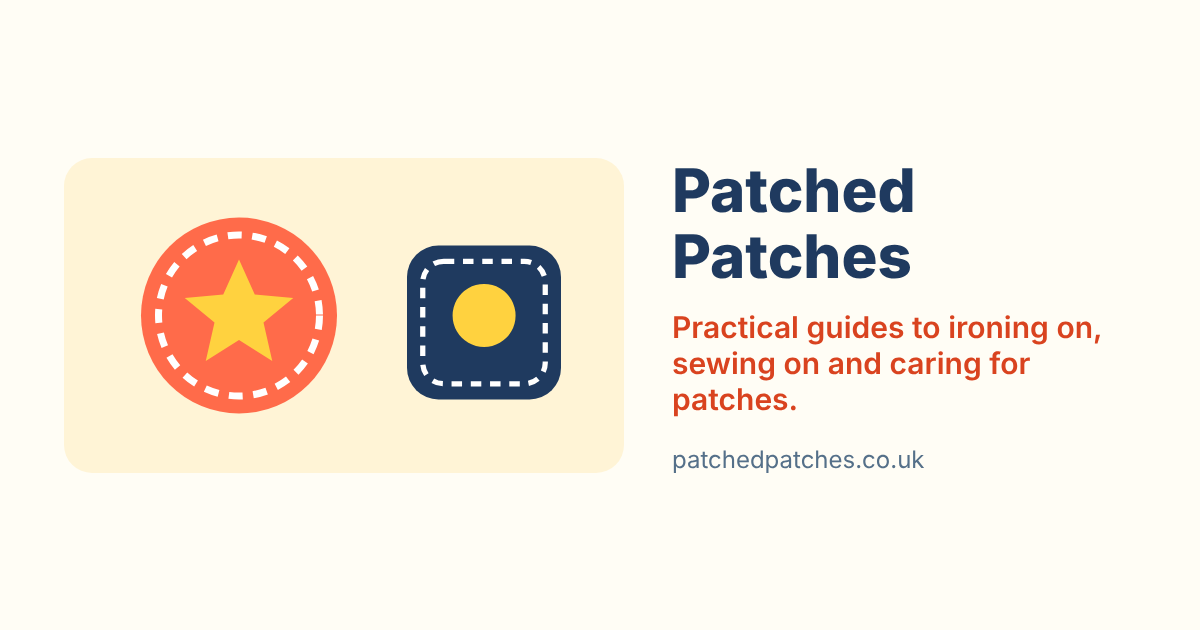
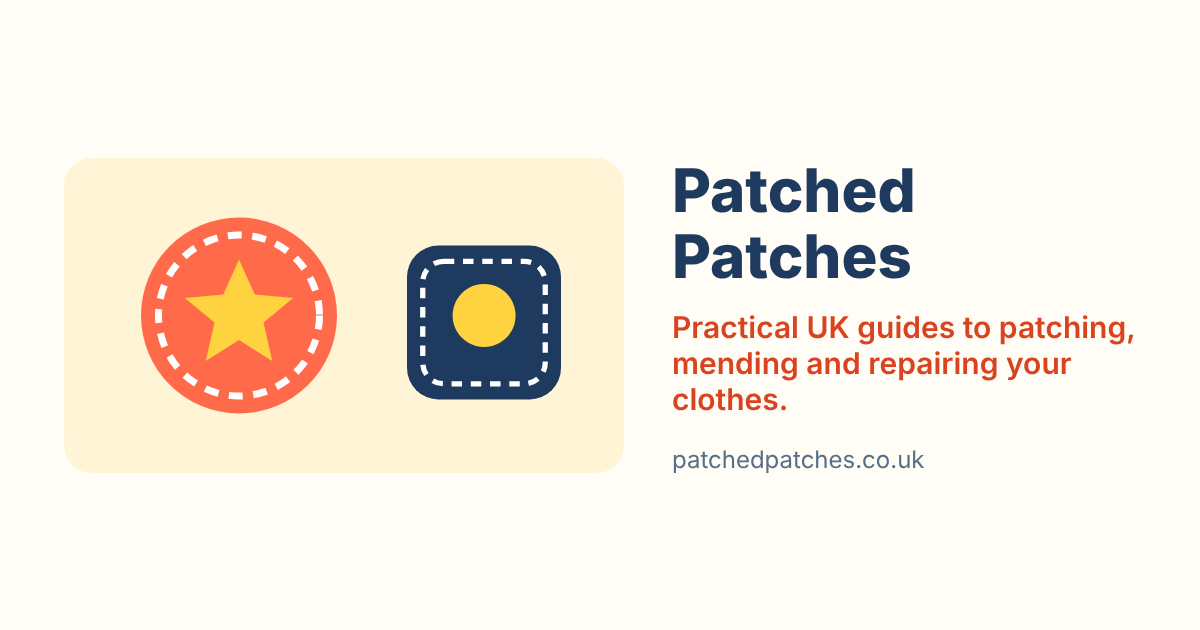
Widen the site to clothing repair and mending
Add a Mending and repairs topic with three starter guides (darning a
jumper, sewing on a button, visible mending), move the jeans hole guide
into it, refresh the homepage and tagline, promote the layout tool on the
homepage and in the nav, and add mending topics to the content backlog.

Claude-Session: https://claude.ai/code/session_01LcLBueyEC4HMvEXcbUj53C

Changed region(s): [[0.555, 0.4825, 0.9558, 0.6635]]

diff --git a/public/style.css b/public/style.css
@@ -652,3 +652,16 @@ nav[aria-label="Main"] a { font-weight: 800; }
   .layout-tool { grid-template-columns: minmax(0, 1fr); padding-top: 18px; }
   .stage { position: relative; top: 0; padding: 10px; border-radius: 22px; }
 }
+
+/* Homepage band for the layout tool */
+.tool-band { padding: 40px 0 0; }
+.tool-band-grid { display: grid; grid-template-columns: minmax(0, 1fr) minmax(0, 1fr); gap: 32px; align-items: center; padding: 30px 40px; border-radius: 30px;
+  background: color-mix(in srgb, #8e5cd9 14%, var(--surface)); box-shadow: 0 6px 0 color-mix(in srgb, #8e5cd9 30%, transparent), var(--shadow); }
+.tool-band-art { display: block; }
+.tool-band-art svg { display: block; width: 100%; height: auto; max-height: 280px; transition: transform .3s cubic-bezier(.3, 1.4, .5, 1); }
+.tool-band-art:hover svg { transform: rotate(-2deg) scale(1.03); }
+.tool-band-art .cursor { animation: nudge 2.4s ease-in-out infinite; }
+@keyframes nudge { 50% { transform: translate(250px, 200px); } }
+@media (prefers-reduced-motion: reduce) { .tool-band-art .cursor { animation: none; } }
+@media (max-width: 760px) { .tool-band-grid { grid-template-columns: minmax(0, 1fr); padding: 24px 20px; } }
+@media (max-width: 440px) { .site-header nav .hide-xs { display: none; } }

diff --git a/content/guides/how-to-darn-a-hole-in-a-jumper.md b/content/guides/how-to-darn-a-hole-in-a-jumper.md
@@ -1,0 +1,76 @@
+---
+title: How to darn a hole in a jumper
+description: How to darn a hole in a knitted jumper by hand, step by step, with the right wool and needle, plus how to fix moth holes and worn elbows before they get bigger.
+category: Mending and repairs
+date: 2026-10-24
+reviewed: 2026-10-24
+patch: DARN|IT
+shape: hex
+---
+To darn a hole in a jumper, you weave new yarn across the hole: first a set of parallel stitches running one way, then a second set woven over and under them at right angles, anchored in the sound knitting around the edge. It takes 15 to 30 minutes for a small hole and lasts for years. Most darns go wrong because they're pulled too tight, which puckers the jumper, or because they stop at the edge of the hole instead of reaching the healthy fabric around it.
+
+## What to check first
+
+- **The size of the hole.** Woven darning works best on holes up to about 2.5 cm (1 in) across. Bigger holes are easier to fix with a patch on the inside, or with a decorative visible mend.
+- **How worn the area is.** Hold the jumper up to the light. Thin patches around the hole need covering too, or they'll be the next hole.
+- **The care label.** It tells you the fibre, which helps you match the yarn. A wool jumper wants wool yarn, so the darn shrinks and stretches the same way when washed.
+
+## What you need
+
+- **Yarn** close in weight to the jumper's own, or a little finer. Darning wool or a fine sock yarn suits most knitwear. Choose a matching colour to hide the repair, or a bright one to show it off.
+- **A blunt darning needle** with an eye big enough for the yarn. A blunt tip slips between stitches instead of splitting them. A [set of darning needles](amazon:darning needles blunt) is inexpensive.
+- **Something round to stretch the hole over**: a darning mushroom or egg, an orange, a jam jar or a tennis ball. [Darning mushrooms](amazon:darning mushroom) make it easier.
+- **Small scissors.**
+
+## How to darn a hole, step by step
+
+1. **Trim any loose, fluffy ends** around the hole, but don't cut into the knitting. If there are loose loops (dropped stitches), catch them with a few stitches so they can't run further.
+2. **Turn the jumper inside out** if you want the darn to be less visible, or work on the right side for a visible mend.
+3. **Stretch the area over your mushroom** so it's smooth and flat, but not pulled out of shape. A rubber band or hair tie round the stem holds it in place.
+4. **Mark out the darning area.** Picture a square or rectangle covering the hole and about 1 cm (⅜ in) of sound knitting on every side. Some people tack round it with a contrasting thread first.
+5. **Sew the first set of lines (the warp).** Starting at one corner of your area, outside the hole, take small running stitches in a straight line across the sound knitting, over the hole, and into the sound knitting on the other side. Turn and come back in a line right next to the first. Keep going until the whole area is covered with close, parallel lines. Leave a small loop of slack at each turn so the darn can stretch with the knit.
+6. **Weave the second set of lines (the weft).** Turn the work 90 degrees. Starting outside the hole again, weave the needle **over one line and under the next** all the way across, then back the other way, going over the lines you went under last time. Push each row gently up against the last with the needle tip so it forms a little woven square.
+7. **Finish off.** Weave the tail of the yarn through the back of the darn or the surrounding knitting for 3 to 4 cm (about 1½ in) and trim. Don't use a knot; it can rub through.
+8. **Steam or press lightly** following the care label, which helps the darn settle into the knitting.
+
+## Darning methods compared
+
+| Method | Best for | What to know |
+|---|---|---|
+| Woven darn | Small holes and thin patches in knitwear and socks | Strong and flexible; hidden in a matching yarn, or decorative in a bright one |
+| Swiss darning (duplicate stitch) | Thin areas that haven't fully gone through | Follows the knit stitches exactly, so it's almost invisible; not for open holes |
+| Patch on the inside | Larger holes and worn elbows | Quick and strong; a little stiffer than a darn |
+| Visible mend on the outside | Any size, when you like the look | Can be woven, stitched or patched; see our [visible mending guide](/guides/sashiko-visible-mending-for-beginners/) |
+
+## Moth holes
+
+Moth holes are usually small and scattered. Darn each one as above. Before you put the jumper away, wash it as the label allows, or put it in the freezer in a sealed bag for a few days, and store knitwear clean and dry in sealed bags or boxes. Clothes moths prefer dirty, undisturbed wool, so cleaning and checking stored jumpers regularly is the best prevention.
+
+## Worn elbows
+
+Elbows wear thin long before they open up. Darn them while the knitting is still whole, or sew a soft suede, felt or knitted elbow patch over the top. Our guide to [sewing on a patch by hand](/guides/how-to-sew-on-a-patch-by-hand/) shows the stitches. Leave some give in the stitches, because elbows stretch every time you bend your arm.
+
+## Don't
+
+- **Don't pull the darn tight.** It puckers the jumper and can tear the edge of the hole.
+- **Don't stop at the edge of the hole.** Anchor every line in sound knitting.
+- **Don't use a sharp needle** if you can help it; it splits the yarn of the jumper.
+- **Don't use a much thicker yarn** than the jumper, or the darn will sit in a hard lump.
+
+## Common questions
+
+### What's the best yarn for darning a wool jumper?
+A wool yarn of the same weight as the jumper, or slightly finer. Darning wool or a fine sock yarn works for most jumpers. Matching the fibre means the repair behaves the same way when it's washed.
+
+### Can you darn without a darning mushroom?
+Yes. Anything firm and rounded works: an orange, a jam jar, a light bulb or a tennis ball. It just needs to hold the knitting flat and smooth while you weave.
+
+### How big a hole can you darn?
+Woven darning works best up to about 2.5 cm (1 in) across. You can darn bigger holes, but it takes a long time and the repair is stiffer, so a patch on the inside is often easier.
+
+### Will a darn come undone in the wash?
+Not if the ends are woven in rather than knotted, and the darn reaches sound knitting all round. Wash the jumper as the care label says.
+
+## The short version
+
+Stretch the hole over something round, sew close parallel lines across it into the sound knitting on each side, then weave a second set at right angles, over and under. Keep the tension loose, weave the ends in, and catch holes while they're small.

diff --git a/content/guides/how-to-sew-on-a-button.md b/content/guides/how-to-sew-on-a-button.md
@@ -1,0 +1,78 @@
+---
+title: How to sew on a button (so it stays on)
+description: How to sew a button back on by hand, with a thread shank so it buttons easily, plus four-hole buttons, shank buttons and coat buttons.
+category: Mending and repairs
+date: 2026-10-24
+reviewed: 2026-10-24
+patch: BUTTON|UP
+shape: circle
+---
+To sew on a button, knot a doubled thread, stitch through the button's holes and the fabric four to six times, leaving a little space under the button, then wrap the thread round those stitches to make a short stem (a shank) and tie off on the inside. It takes about 10 minutes. Buttons that come off again usually weren't given a shank, so the fabric and thread were squeezed every time the button went through the hole.
+
+## What to check first
+
+- **Where the button goes.** Look for the old holes or the little tuft of thread left behind. If there's nothing, button the garment up and push a pin through the buttonhole to mark the spot.
+- **The fabric around it.** If the button tore a hole when it came off, mend that first, or back it with a small square of fabric or a tiny backing button on the inside.
+- **The button type.** Flat buttons with two or four holes, and shank buttons with a loop on the back, are sewn on slightly differently (see below).
+
+## What you need
+
+- **Thread** that matches the other buttons. Polyester all-purpose thread is strong enough for shirts and trousers; use button thread or [upholstery thread](amazon:button thread strong) for coats.
+- **A hand-sewing needle** that passes through the button holes.
+- **A cocktail stick, matchstick or pin** to make the space for the shank.
+- **Scissors.** A [basic sewing kit](amazon:sewing kit for beginners) has all of this.
+- **A spare button**, if the old one is lost. Many shirts and coats have a spare sewn inside, near a side seam or on the care label.
+
+## How to sew on a flat button
+
+1. **Thread the needle** with about 60 cm (2 ft) of thread, pull the ends level so it's doubled, and knot them together.
+2. **Start on the right side**, under where the button will sit, with a small stitch through the fabric, so the knot is hidden under the button. Take a second tiny stitch in the same place to lock it.
+3. **Put the button on the needle** and slide it down to the fabric.
+4. **Lay a cocktail stick or pin across the top of the button**, between the holes. Your stitches go over it, which leaves slack for the shank.
+5. **Stitch up and down** through the holes and the fabric, going over the stick each time. Four to six passes is enough for a shirt; a coat button wants a few more. On a four-hole button, make two parallel bars or a cross, matching the other buttons on the garment.
+6. **Take out the stick** and pull the button away from the fabric so the slack stitches stand up underneath it.
+7. **Make the shank.** Bring the needle up between the button and the fabric and wind the thread tightly round the stitches five or six times.
+8. **Finish off.** Push the needle to the inside, take three or four small stitches on top of each other through the back of the button stitches, and trim the thread.
+
+## Shank buttons and coat buttons
+
+**Shank buttons** have a loop on the back instead of holes, so they make their own space. Stitch through the loop and the fabric four to six times, keeping the loop lined up with the buttonhole, then finish off on the inside.
+
+**Coat buttons** carry more strain and sit on thicker fabric. Use strong button thread, a longer shank (about the thickness of the fabric at the buttonhole), and a small flat **backing button** on the inside, stitched through at the same time. The backing button spreads the pull so it can't tear the fabric.
+
+## Thread and button types compared
+
+| Button | Best thread | Shank | What to know |
+|---|---|---|---|
+| Shirt button (2 or 4 holes) | Polyester all-purpose | Short, about a pin's width | Match the stitch pattern of the other buttons |
+| Trouser waistband button | Polyester or button thread | Short | Takes a lot of pull: use more passes |
+| Coat button | Button or upholstery thread | As thick as the fabric | Add a backing button on the inside |
+| Shank button | Polyester or button thread | Built in | Line the loop up with the buttonhole |
+| Jeans button (tack button) | None | Built in | Hammered on, not sewn; replace with a [no-sew jeans button](amazon:no sew jeans buttons replacement) |
+
+## Don't
+
+- **Don't sew the button flat and tight** to the fabric. It won't do up properly and will pull off again.
+- **Don't use a single strand of thin thread** on a coat or waistband.
+- **Don't finish with just a knot.** Lock the thread with a few small stitches first.
+- **Don't guess the position.** Mark it through the buttonhole.
+
+## Common questions
+
+### How many times should you sew through a button?
+Four to six passes through each pair of holes for a shirt, and a few more for a coat or waistband. More than that makes a hard lump without adding much strength.
+
+### Should you use single or double thread to sew on a button?
+Double thread is quicker and stronger for most buttons, because each pass lays two strands. Use a single strand of heavier button thread for coats if a doubled strand won't fit through the holes.
+
+### Why do buttons keep falling off?
+Usually the thread was too thin, there were too few passes, there was no shank, or the thread was only knotted at the end. Thread can also be cut by the sharp edges of some button holes; a shank and stronger thread help.
+
+### How do you replace a button on jeans?
+Most jeans buttons are hammered through the fabric rather than sewn. You can buy no-sew replacement buttons that push or screw together through the waistband, or sew on an ordinary shank button with strong thread.
+
+## The short version
+
+Mark the spot through the buttonhole, stitch through the button and fabric four to six times over a cocktail stick, then take the stick out and wind the thread round the stitches to make a shank. Lock the thread with small stitches on the inside, and use strong thread and a backing button on coats.
+
+Related: [how to sew on a patch by hand](/guides/how-to-sew-on-a-patch-by-hand/) and [how to patch a hole in jeans](/guides/how-to-patch-a-hole-in-jeans/).

diff --git a/content/guides/sashiko-visible-mending-for-beginners.md b/content/guides/sashiko-visible-mending-for-beginners.md
@@ -1,0 +1,80 @@
+---
+title: Sashiko and visible mending for beginners
+description: How to mend clothes so the repair shows on purpose, using sashiko-style running stitch and a fabric patch, with a simple first project for jeans or a jacket.
+category: Mending and repairs
+date: 2026-10-24
+reviewed: 2026-10-24
+patch: SASHIKO
+shape: oval
+---
+Visible mending means repairing a hole or worn patch so the repair shows on purpose, usually with a contrasting patch and rows of neat running stitch. **Sashiko** is a Japanese stitching tradition of running stitch in thick thread, originally used to reinforce and repair work clothes, and it's the style most people mean when they talk about visible mending today. You only need one stitch, and an uneven first attempt still looks good.
+
+## What to check first
+
+- **The fabric.** Visible mending suits woven fabrics like denim, canvas, cotton and linen best. For knitwear, use darning instead (see [how to darn a hole in a jumper](/guides/how-to-darn-a-hole-in-a-jumper/)).
+- **How worn the area is.** Hold the garment up to the light. Plan a patch that covers the hole and the thin fabric around it, plus about 1.5 cm (⅝ in) on every side.
+- **Where it bends.** Knees and elbows need looser stitching and a slightly bigger patch.
+
+## What you need
+
+- **A patch of fabric** a similar weight to the garment, or a little lighter. Old jeans, a shirt or a scrap of canvas all work. Cotton is easiest to sew.
+- **Thick thread.** [Sashiko thread](amazon:sashiko thread) is made for this; stranded embroidery floss (using all six strands) or perle cotton also work.
+- **A long, sharp needle** with a big eye. [Sashiko needles](amazon:sashiko needles) let you load several stitches at once.
+- **Pins, scissors, and a chalk pencil or washable fabric marker.**
+- **Optional:** an embroidery hoop to keep the fabric flat, and a thimble for denim.
+
+## Your first visible mend, step by step
+
+1. **Trim loose threads** round the hole.
+2. **Cut a patch** that covers the hole and worn area with a 1.5 cm (⅝ in) margin. Round the corners, which stops them lifting.
+3. **Decide inside or outside.** A patch **behind** the hole shows through like a little window, which is the classic sashiko look. A patch **on top** is bolder and covers more.
+4. **Pin or tack the patch** in place, keeping the garment flat. Slide a piece of card into a trouser leg or sleeve so you don't catch the other side.
+5. **Mark guide lines** with chalk: straight parallel lines about 5 to 8 mm (¼ in) apart across the patch, running past its edges onto the sound fabric.
+6. **Knot the thread** and start on the inside, at the end of a line.
+7. **Sew running stitch along each line**: the needle goes in and out at even spacing, with stitches about 3 to 6 mm (⅛ to ¼ in) long. Aim for stitches on top that are slightly longer than the gaps between them. Load a few stitches onto the needle before pulling it through.
+8. **Leave a small loop at the end of each row** before you start the next, so the fabric can still move and stretch.
+9. **Cover the whole patch**, including across the hole and onto the garment on every side. The stitching holds the frayed edges flat and fixes the patch in place.
+10. **Finish off** on the inside with a few small stitches, then trim.
+
+## Visible mending styles compared
+
+| Style | Looks like | Best for | What to know |
+|---|---|---|---|
+| Rows of running stitch | Simple stripes over a patch | First projects, knees, jeans | Quick; the more rows, the stronger |
+| Grid or cross stitch | A woven-looking check | Bigger holes and very worn areas | Sew one set of rows, then a second at right angles |
+| Sashiko patterns | Geometric patterns such as waves or interlocking shapes | Decorative mends and reinforcement | Patterns can be printed and traced; slower but striking |
+| Boro-style layering | Several overlapping patches | Very worn denim and workwear | Patches can overlap and be added over time |
+
+## Ideas for your first project
+
+- **A knee hole in jeans.** Put a contrasting cotton patch behind the hole and stitch horizontal rows across it, leaving the knee a little loose.
+- **A frayed jacket cuff.** Fold a strip of fabric over the cuff edge and stitch rows along it.
+- **A worn jacket elbow.** Reinforce it with rows of stitching before it opens into a hole.
+- **A shirt with a small tear.** Put a scrap of fabric behind the tear and stitch a small square grid.
+
+For holes where you'd rather the repair didn't show, see [how to patch a hole in jeans](/guides/how-to-patch-a-hole-in-jeans/). If you'd prefer a ready-made patch, our [patch layout tool](/patch-layout-tool/) helps you plan where it goes.
+
+## Don't
+
+- **Don't pull stitches tight.** It puckers the fabric and makes the repair stiff.
+- **Don't stop the stitching at the edge of the hole.** Carry it onto the sound fabric.
+- **Don't use thin sewing thread.** It disappears and doesn't reinforce much.
+- **Don't worry about perfect stitches.** Even spacing matters more than identical length.
+
+## Common questions
+
+### What thread do you use for sashiko?
+Sashiko thread is a thick, tightly twisted cotton made for this kind of stitching. Stranded embroidery floss using all six strands, or perle cotton, are good alternatives you can find in most craft shops.
+
+### Do you need a special needle for sashiko?
+A sashiko needle is long and sharp with a large eye, which lets you load several stitches at once. A long embroidery or crewel needle works for small projects.
+
+### Is visible mending strong?
+Yes, as long as the patch reaches sound fabric and the stitching covers the whole worn area. Closely spaced rows of running stitch reinforce the fabric as well as hold the patch.
+
+### Should the patch go on the inside or the outside?
+Inside gives the classic look of a hole framed by stitching. Outside covers more, and is easier when the hole is large or ragged. Both are equally strong if stitched well.
+
+## The short version
+
+Put a fabric patch behind or on top of the hole, covering the worn area with a margin, then sew close rows of running stitch in thick thread across the patch and onto the sound fabric. Keep the tension loose and the spacing even, and don't worry about perfection.

diff --git a/CONTENT.md b/CONTENT.md
@@ -3,7 +3,7 @@
 These are the rules every guide follows, whether a person or Claude writes it.
 
 ## Who it's for
-Someone in the UK who just searched "how to iron on a patch", "best glue for patches" or similar. Answer their question in the first paragraph.
+Someone in the UK who just searched "how to iron on a patch", "how to fix a hole in jeans", "how to darn a jumper", "best glue for patches" or similar. The site covers patches **and** everyday clothing repair and mending. Answer their question in the first paragraph.
 
 ## Shape of a how-to guide
 1. A short opening: the quick answer, and what usually goes wrong.
@@ -25,7 +25,8 @@ Someone in the UK who just searched "how to iron on a patch", "best glue for pat
 - No filler intros, no "In conclusion", no keyword stuffing.
 - One topic per guide. Check `content/guides/` first and don't duplicate an existing guide; update it instead.
 - Link to 1–3 related guides on the site with relative links like `/guides/how-to-iron-on-a-patch/`.
-- `category` must be one of: Applying patches, Patch care, Choosing patches, Projects and ideas, Tools and kit.
+- `category` must be one of: Applying patches, Mending and repairs, Patch care, Choosing patches, Projects and ideas, Tools and kit.
+- Where a guide is about placing patches, link to the free [patch layout tool](/patch-layout-tool/).
 
 ## Buying guides (Tools and kit)
 Buying guides help someone choose a product: "best X for patches". They are where most affiliate income comes from. Shape:
@@ -47,7 +48,26 @@ Rules for buying guides:
 - 1 to 3 Amazon links in a how-to guide. In a buying guide, one per type in the table plus one per named product in Popular picks.
 
 ## Topic backlog
-Write these next, roughly in order, and remove each from the list once published:
+Write these next, roughly in order, and remove each from the list once published. Alternate mending guides with patch guides.
+
+Mending and repairs (category: Mending and repairs; buying guides go in Tools and kit):
+- Buying guide: best sewing machines for beginners (UK)
+- How to fix a broken zip (stuck, split and missing teeth)
+- How to take up trousers by hand (hemming without a machine)
+- How to fix a ripped seam
+- How to remove bobbles from a jumper (and stop them coming back)
+- Buying guide: best fabric shavers and de-bobblers
+- How to darn socks
+- How to fix a hole in a T-shirt
+- How to mend a hole in a coat lining
+- How to fix a snag in a jumper
+- Buying guide: best darning and mending kits
+- How to replace a drawstring in a hoodie or joggers
+- How to fix a fallen hem with hemming tape (no sewing)
+- How to repair a tear in a waterproof jacket
+- Basic hand stitches every mender needs
+
+Patches:
 - Buying guide: best sewing kits for patches and repairs
 - Embroidered vs woven vs PVC patches: what's the difference?
 - How to make your own iron-on patch (fusible web method)

diff --git a/content/pages/about.md b/content/pages/about.md
@@ -2,12 +2,12 @@
 title: About Patched Patches
 description: What Patched Patches is and how the guides are put together.
 ---
-Patched Patches is a library of practical, UK-focused guides to patches: ironing them on, sewing them on, gluing them, washing them, taking them off again, and choosing the kit that makes it easy.
+Patched Patches is a library of practical, UK-focused guides to patching and mending clothes: ironing on and sewing on patches, fixing holes, darning, sewing on buttons, visible mending, and choosing the kit that makes it easy. We also make a free [patch layout tool](/patch-layout-tool/) for planning where your patches go.
 
 Every guide follows the same shape:
 
 - **The quick answer first**, in plain English.
-- **Numbered steps** you can follow at the ironing board.
+- **Numbered steps** you can follow at the ironing board or sewing table.
 - **What to avoid**, including the fabrics that can't take heat.
 
 ## How we write our guides

diff --git a/content/guides/how-to-patch-a-hole-in-jeans.md b/content/guides/how-to-patch-a-hole-in-jeans.md
@@ -1,7 +1,7 @@
 ---
 title: How to patch a hole in jeans (iron-on and sewn repairs)
 description: How to fix a hole in jeans with an iron-on or sewn patch, when to patch from the inside or the outside, and how to mend knee and crotch holes so they last.
-category: Projects and ideas
+category: Mending and repairs
 date: 2026-10-10
 patch: MEND|IT
 shape: square
